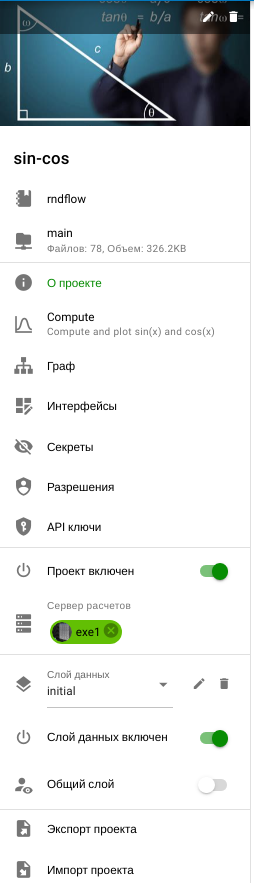
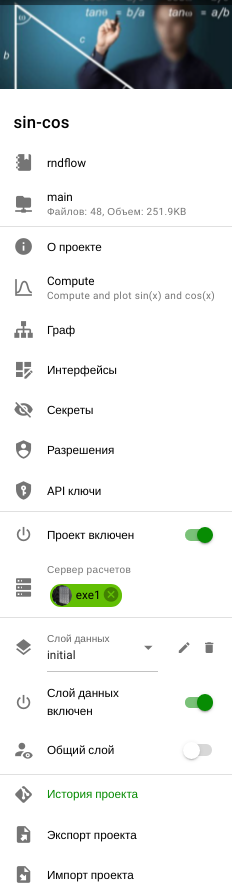
Add git info

diff --git a/src/.vuepress/config.js b/src/.vuepress/config.js
@@ -74,6 +74,7 @@ module.exports = {
             '/desc/secrets',
             '/desc/api_keys',
             '/desc/docker',
+            '/desc/git',
             '/desc/interface',
             '/desc/executor',
             '/desc/s3',
@@ -95,6 +96,7 @@ module.exports = {
             '/instructions/executor',
             '/instructions/s3',
             '/instructions/docker',
+            '/instructions/git',
             '/instructions/payplan',
             '/instructions/video',
             '/instructions/examples',

diff --git a/src/instructions/git.md b/src/instructions/git.md
@@ -1,0 +1,73 @@
+# Git
+
+Версионное хранение реализовано на основе [Git поддержки в платформе][1].
+
+::: warning <span class='iconify' data-icon='emojione-v1:warning' style='color: #e7c000; font-size: 24px;'></span>
+Пользователь, совершающий операции, должен иметь соответствующие [разрешения][2].
+:::
+
+::: warning <span class='iconify' data-icon='emojione-v1:warning' style='color: #e7c000; font-size: 24px;'></span>
+Целевой Git репозиторий должен быть предварительно создан пользователем.
+:::
+
+## Подключить проект
+
+- [Открыть][3] необходимый проект.
+
+- В [панели управления проектом][4] выбрать <span class="iconify-inline" data-icon="mdi:git"></span>**История проекта** для перехода в раздел **Синхронизация с Git**.
+
+- В поле ввода **Адрес репозитория Git (в формате SSH)** ввести адрес существующего удаленного репозитория.
+
+  > Пример: git@github.com:user/project.git
+
+- Сохранить адрес нажатием кнопки <span class='iconify-inline' data-icon='mdi:content-save'></span>
+
+- Нажать на кнопку <span class='iconify-inline' data-icon='mdi:key'></span> **СКОПИРОВАТЬ ПУБЛИЧНЫЙ SSH КЛЮЧ** - для копировать в буфер обмена публичного SSH ключа.
+
+- [Добавить ключ развертывания][5] в целевом репозитории.
+
+### Добавление ключей развертывания
+
+#### GitHub
+
+Ключ, возвращаемый кнопкой <span class='iconify-inline' data-icon='mdi:key'></span> **СКОПИРОВАТЬ ПУБЛИЧНЫЙ SSH КЛЮЧ**, должен быть добавлен в качестве ключа развертывания (deployment key) в соответствующий [GitHub][6] репозиторий.
+
+::: tip <span class='iconify' data-icon='mdi:information' style='color: #42b983; font-size: 24px;'></span>
+Например, для проекта **rndflow/project-example-sin-cos** настройки ключей доступны по адресу: [https://github.com/rndflow/project-example-sin-cos/settings/keys](https://github.com/rndflow/project-example-sin-cos/settings/keys).
+:::
+
+![Git](/images/common/git_keys.png)
+
+## Сохранить новую версию
+
+- [Открыть][3] необходимый проект.
+
+- В [панели управления проектом][4] выбрать <span class="iconify-inline" data-icon="mdi:git"></span>**История проекта** для перехода в раздел **Синхронизация с Git**.
+
+- В разделе **Сохранить текущее состояние проекта** ввести:
+  - Краткое описание версии
+  - Расширенное описание версии (необязательно)
+  - Нажать кнопку **СОХРАНИТЬ**.
+  - Дождаться появления новой версии в **История изменений** (добавление происходит асинхронно в фоновом режиме).
+
+## Восстановить версию
+
+::: tip <span class='iconify' data-icon='mdi:information' style='color: #42b983; font-size: 24px;'></span>
+Восстановление ранних версий проекта, в которых отсутствуют позднее созданные узлы, безопасно. Пакеты и задачи этих узлов не будут утеряны. Пакеты и задачи этих узлов будут восстановлены при возврате в версии проекта, в которых они присутствуют.
+:::
+
+- [Открыть][3] необходимый проект.
+
+- В [панели управления проектом][4] выбрать <span class="iconify-inline" data-icon="mdi:git"></span>**История проекта** для перехода в раздел **Синхронизация с Git**.
+
+- В разделе **История изменений** выбрать необходимую версию.
+- Нажать кнопку <span class='iconify-inline' data-icon='mdi:backup-restore'></span> восстановления версии.
+- Нажать кнопку **ОК** в диалоге подтверждения восстановления версии.
+- Дождаться завершения операции (добавление происходит асинхронно в фоновом режиме).
+
+[1]: /docs/desc/git.md
+[2]: /docs/desc/git.md#разрешения
+[3]: ./project.md#открытие-проекта
+[4]: /docs/desc/project.md#панель-управления-проектом
+[5]: #добавление-ключеи-развертывания
+[6]: htts://github.com

diff --git a/src/desc/git.md b/src/desc/git.md
@@ -1,0 +1,85 @@
+# Git
+
+## Описание
+
+Платформа поддерживает сохранение проекта в [Git][1] репозиториях, таких как [GitHub][2].
+
+::: danger <span class='iconify' data-icon='gg:danger' style='color: #cc0000; font-size: 24px;'></span>
+Git репозиторий является единым для всего проекта и всех его пользователей!
+:::
+
+Производится сохранение:
+
+- Параметров [проекта][4]
+- Структуры [графа][5]
+- [Узлов][6] и их параметров и настроек
+  ::: danger <span class='iconify' data-icon='gg:danger' style='color: #cc0000; font-size: 24px;'></span>
+  1. Хранение пакетов не производится!
+  2. Сохраняются параметры только текущего [слоя данных][8].
+     :::
+- [Файлов][7] узлов
+  ::: danger <span class='iconify' data-icon='gg:danger' style='color: #cc0000; font-size: 24px;'></span>
+  Сохраняются только текущие файлы узлов!
+  :::
+- [Интерфейсов проека][9]
+
+## Структура
+
+![Git](/images/common/git.png)
+
+- Адрес репозитория Git (в формате SSH)
+
+  - Поле ввода адреса репозитория
+    > Пример: git@github.com:user/project.git
+  - Кнопка <span class='iconify-inline' data-icon='mdi:content-save'></span> - сохранить введеный адрес репозитория
+  - Кнопка <span class='iconify-inline' data-icon='mdi:open-in-new'></span> - октрыть страницу Git репозитория в новом окне
+
+- Кнопка <span class='iconify-inline' data-icon='mdi:key'></span> "СКОПИРОВАТЬ ПУБЛИЧНЫЙ SSH КЛЮЧ" - скопировать в буфер обмена публичный SSH ключ проекта платформы.
+
+- История изменений
+
+  - Кнопка <span class='iconify-inline' data-icon='mdi:sync'></span> - импорт версии из Git репозитория
+  - Кнопка <span class='iconify-inline' data-icon='mdi:refresh'></span> - обновить список
+  - История версий
+
+    Для каждой версии указывается:
+
+    - Краткое описание версии
+    - Расширенное описание (необязательно)
+    - Автор
+    - Время
+    - Кнопка копирования хеша версии
+    - Кнопка <span class='iconify-inline' data-icon='mdi:backup-restore'></span> - восстановление указанной версии
+
+- Сохранить текущее состояние проекта - раздел сохранения текущей версии проекта
+  - Краткое описание
+  - Расширенное описание (необязательно)
+  - Кнопка "СОХРАНИТЬ" - сохранить текущую версию проекта в Git репозитории.
+
+## Разрешения
+
+Обязательные [разрешения пользователя][3] для выполнения операций:
+
+- Подключения проекта к Git репозиторию:
+
+  - project_edit
+
+- Сохранение новой версии проекта:
+
+  - project_edit
+
+- Восстановление предыдущей версии проекта:
+  - graph edit
+  - code_edit
+  - interfaces_edit
+  - project_manage
+
+[1]: https://git-scm.com/
+[2]: htts://github.com
+[3]: /docs/desc/project_role.md#типы-разрешении
+[4]: /docs/desc/project.md
+[5]: /docs/desc/project.md#граф
+[6]: /docs/desc/nodes.md
+[7]: /docs/desc/nodes.md#фаилы
+[8]: /docs/desc/project.html#слои-данных
+[9]: /docs/desc/interface.md

diff --git a/src/desc/project.md b/src/desc/project.md
@@ -19,6 +19,7 @@
 - [Слои данных][3] - список наборов данных
 - [S3 сервер](./s3.md) - подключенное к проекту S3 хранилище
 - [Cервер расчетов](./executor.md) - подключенный к проекту основной сервер расчетов
+- [История проекта][4] - синхронизация проекта с [Git][5] репозиторием.
 
 ## Панель управления проектом
 
@@ -58,6 +59,7 @@
 
 ---
 
+- <span class="iconify-inline" data-icon="mdi:git"></span> [История проекта][4] - синхронизация проекта с [Git][5] репозиторием.
 - <span class="iconify-inline" data-icon="mdi:file-export"></span> Экспорт проекта - экспорт проекта в виде архива
 - <span class="iconify-inline" data-icon="mdi:file-import"></span> Импорт проекта - импорт проекта из внешнего архива
 
@@ -119,6 +121,8 @@
 
 ## Граф
 
+### Описание
+
 **Граф** (Graph) - интегрированная последовательность узлов и направленных связей между ними, в которой узлы соответствуют отдельным этапам или операциям реализуемого алгоритма, а направленные связи определяют направление передачи данных между ними (результаты выполнения одних узлов передаются в качестве входных данных другим узлам).
 
 Для управления графом предназначен дизайнер графа, который позволяет:
@@ -131,6 +135,10 @@
 Общий вид дизайнера графа:
 
 ![Project general view](./images/project/general.png)
+
+::: danger <span class='iconify' data-icon='gg:danger' style='color: #cc0000; font-size: 24px;'></span>
+Граф является единым для всего проекта и всех его пользователей!
+:::
 
 ### Панель действий
 
@@ -174,3 +182,5 @@
 [1]: /docs/instructions/role.md#запрос-платнои-роли
 [2]: /docs/instructions/api_keys.md#запрос-ключа
 [3]: #слои-данных
+[4]: /docs/desc/git.md
+[5]: https://git-scm.com/
